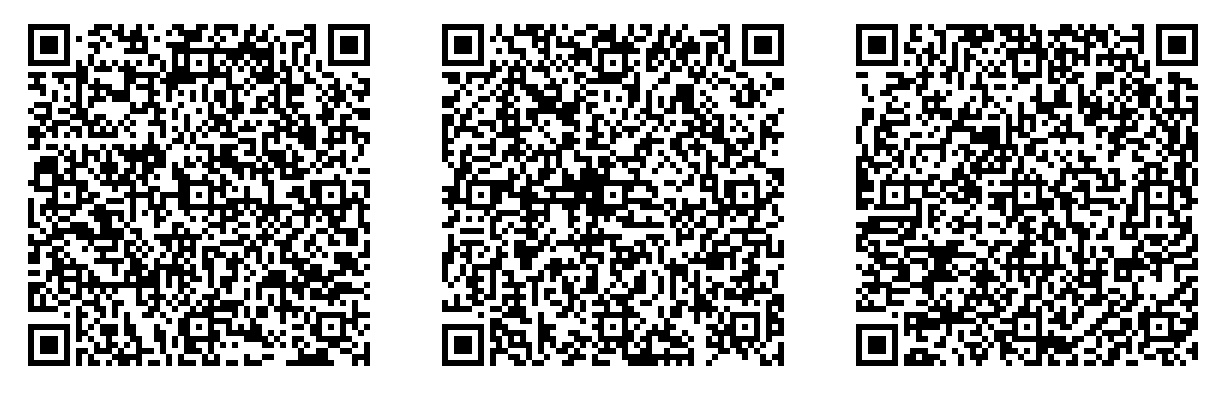
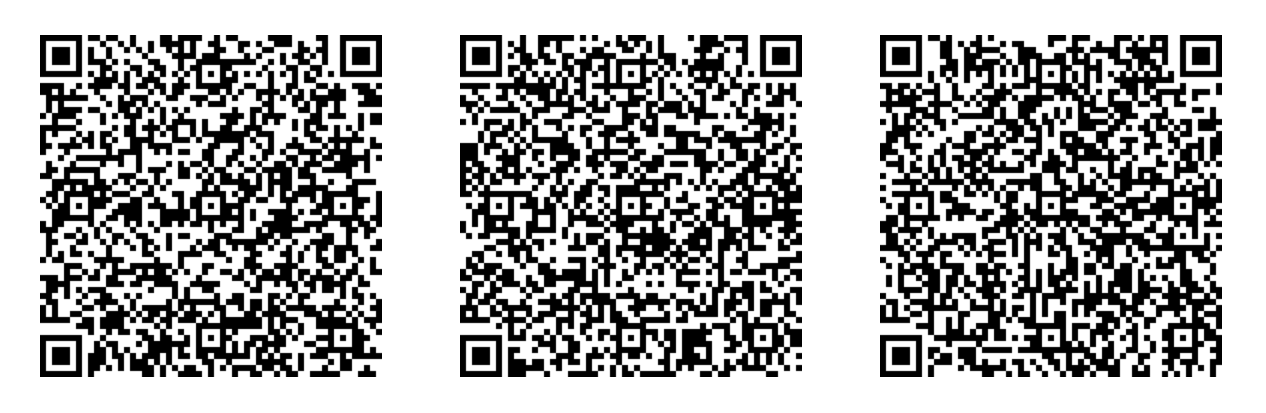
Corrected example URs to comply with version 2.0.

diff --git a/papers/bcr-2020-006-urtypes.md b/papers/bcr-2020-006-urtypes.md
@@ -151,7 +151,7 @@ A20150C7098580125E2AB0981253468B2DBC5202D8641947DA
 * As a UR:
 
 ```
-ur:crypto-seed/gdaebycpeofygoiyktlonloeadgdstasltlabghydrpfmkbggufgludprfgmaotpiecffltnsfhfdrrl
+ur:crypto-seed/oeadgdstasltlabghydrpfmkbggufgludprfgmaotpiecffltnltqdenos
 ```
 
 * UR as QR Code:
@@ -238,7 +238,7 @@ A2018C66736869656C646567726F75706565726F6465656177616B65646C6F636B67736175736167
 * As a UR:
 
 ```
-ur:crypto-bip39/gdaebycpeofygoiyktlonloeadlkiyjkisinihjzieihiojpjlkpjoihihjpjlieihihhskthsjeihiejzjliajeiojkhskpjkhsioihieiahsjkisihiojzhsjpihiekthskoihieiajpihktihiyjzhsjnihihiojzjlkoihaoidihjtcffltnettactlu
+ur:crypto-seed/oeadlkiyjkisinihjzieihiojpjlkpjoihihjpjlieihihhskthsjeihiejzjliajeiojkhskpjkhsioihieiahsjkisihiojzhsjpihiekthskoihieiajpihktihiyjzhsjnihihiojzjlkoihaoidihjtcffltnwyhplfmn
 ```
 
 * UR as QR Code:
@@ -434,9 +434,9 @@ ur:crypto-slip39/oyadlsmwihjkjoihjtieiejpjljnjoishsiahsieihjniniaiehsiainieiyiaj
 * As multi-part UR:
 
 ```
-ur:crypto-slip39/1of3/vlkbkohpfzfplkqddycntbmdswidtdwsbsosbggtdapdotjzhnlasopfdnvyrprhguiskkmo/oyadlsmwihjkjoihjtieiejpjljnjoishsiahsieihjniniaiehsiainieiyiajzinihjtjyisjojpihiehsjyjljpisjpihjkjojljtjkihiehsksjzihiyiahsjtkkjljtisiahsjyihiojljpkkiektinjtihiykoihjpiniykkiyishsknhsjpieisihjzihkohsjyjljpisidjpinihiyinjtioioiohsjpidhsioihiojoihjpiyihiajyisiehsjyhsidhsjkihisieinjkhsjkjyihjpiyidjpjl
-ur:crypto-slip39/2of3/vlkbkohpfzfplkqddycntbmdswidtdwsbsosbggtdapdotjzhnlasopfdnvyrprhguiskkmo/jeihjtmwihjkjoihjtieiejpjljnjoishsiahsieihjniniaiyhsioihjtiakkiehsiajtihiyjkisjpinjnjoishsinjpiajphsiyjyisjkkkjnidjljziniaihjnhskkjljpiejyjpkpihiyjkiahsjpihieihjkishsjpjoiyjohsjyihjtjyihinkojljpkkiyiaihjtjyihjpihiyhsjyhsjzihjojpinknihioiajpkkjkjyhsjziojzihiajykpjpihieisihjpiemwihjkjoihjtieiejpjljnjo
-ur:crypto-slip39/3of3/vlkbkohpfzfplkqddycntbmdswidtdwsbsosbggtdapdotjzhnlasopfdnvyrprhguiskkmo/ishsiahsieihjniniaiyhsjzkthskkjkiyiajpihieinjyihishsinjpkkiejkjzjlktiyjlidjyhsinjtioktihjziajljnihiojojpihkoihjtjyiejzihhsiyioiajljnjohsjtkkisieinjkjyhsjtiaihiyieihjyihiajyieiokpjnjkioiyinjkisinjtioiyinjnjohsiajyiyjojphskkihjpihjkisjljpjyiyiyjljpjnhsjzeymuptva
+ur:crypto-seed/1-3/ltadaxcfadrecyvarfbtahhdmooeadhkadpkoyadlsmwihjkjoihjtieiejpjljnjoishsiahsieihjniniaiehsiainieiyiajzinihjtjyisjojpihiehsjyjljpisjpihjkjojljtjkihiehsksjzihiyiahsjtkkjljtisiahsjyihiojljpkkiektinjtihiykoihjpiniykkiyishsknhsjpieisihjzihkohsjyjljpisidjpinihiyinjtioioiohsjpidhsioihiojoihjpiyihiajyisiehsjyhsidhsjkihisieinjkbelpahpa
+ur:crypto-seed/2-3/ltaoaxcfadrecyvarfbtahhdmohsjkjyihjpiyidjpjljeihjtmwihjkjoihjtieiejpjljnjoishsiahsieihjniniaiyhsioihjtiakkiehsiajtihiyjkisjpinjnjoishsinjpiajphsiyjyisjkkkjnidjljziniaihjnhskkjljpiejyjpkpihiyjkiahsjpihieihjkishsjpjoiyjohsjyihjtjyihinkojljpkkiyiaihjtjyihjpihiyhsjyhsjzihjojpinknihioiajpkkjkjyhsjziojzihiajykpjpihieisihjpyafprsws
+ur:crypto-seed/3-3/ltaxaxcfadrecyvarfbtahhdmoiemwihjkjoihjtieiejpjljnjoishsiahsieihjniniaiyhsjzkthskkjkiyiajpihieinjyihishsinjpkkiejkjzjlktiyjlidjyhsinjtioktihjziajljnihiojojpihkoihjtjyiejzihhsiyioiajljnjohsjtkkisieinjkjyhsjtiaihiyieihjyihiajyieiokpjnjkioiyinjkisinjtioiyinjnjohsiajyiyjojphskkihjpihjkisjljpjyiyiyjljpjnhsjzaotpiecffdemaesteovlrh
 ```
 
 * Multi-part UR as multiple QR codes:
